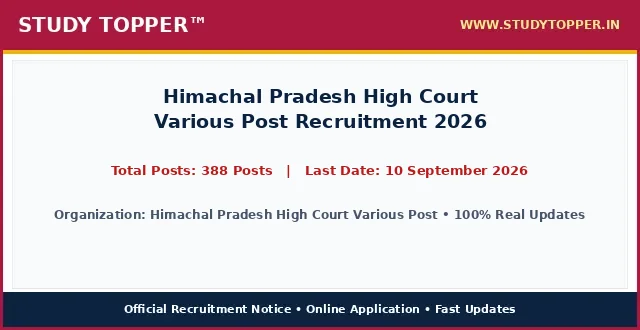
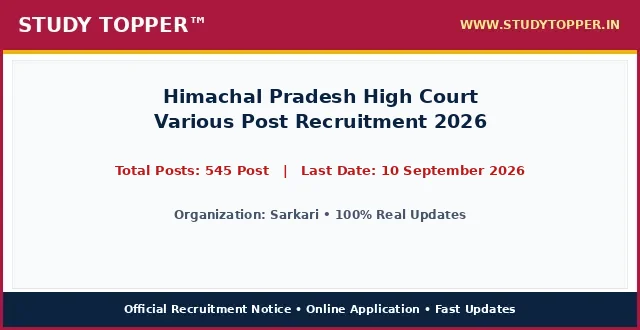
chore(lifecycle): daily auto-sort vacancies and update active dates

Changed region(s): [[0.1562, 0.4848, 0.8438, 0.5455], [0.0625, 0.6364, 0.9375, 0.6667]]

diff --git a/pages/himachal-pradesh-high-court-various-post-2026.html b/pages/himachal-pradesh-high-court-various-post-2026.html
@@ -987,12 +987,12 @@ ul.wp-block-latest-posts a:hover {
 <main class="site-main" id="main">
 <div class="gb-container gb-container-b39c368c">
 <h1 class="gb-headline gb-headline-e52a0102 gb-headline-text" style="font-size: 22px; font-weight: 700; color: #0000cd; text-align: left; margin: 8px 0 4px 0; line-height: 1.3; width: 100%; font-family: '-apple-system, BlinkMacSystemFont, 'Segoe UI', Roboto, 'Helvetica Neue', Arial, sans-serif', Times, serif, Hind, sans-serif;">Himachal Pradesh High Court Various Post Recruitment 2026</h1>
-<div class="gb-container gb-container-659bd175"><p style="color: #cd0808; font-weight: 700; font-size: 15px; margin: 2px 0 7px 0; text-align: left; font-family: '-apple-system, BlinkMacSystemFont, 'Segoe UI', Roboto, 'Helvetica Neue', Arial, sans-serif', Times, serif, Hind, sans-serif;">Post Date: August 21, 2026 07:48 PM</p></div>
-<p class="gb-headline gb-headline-550ae316 short_Details gb-headline-text" style="width: 100%; max-width: 100%; font-size: 16.8px; line-height: 1.55; color: #000000; text-align: justify; text-justify: inter-word; margin: 8px 0 14px 0; display: block; font-family: '-apple-system, BlinkMacSystemFont, 'Segoe UI', Roboto, 'Helvetica Neue', Arial, sans-serif', Times, serif, Hind, sans-serif;"><strong style="color: #0000cd;">Himachal Pradesh High Court Various Post</strong> has officially published the recruitment notice <strong style="color: #cd0808;">Himachal Pradesh High Court Various Post Recruitment 2026</strong> under notification number Official Advt 2026. Online applications are invited for 388 Posts across multiple departments and cadre positions. Interested candidates possessing the requisite educational qualifications and falling between 18 Years to 45-50 Years (Category Wise) can complete their online registration before the application deadline of 10 September 2026. Applicants should read the eligibility criteria, category reservation rules, and exam scheme thoroughly before submitting applications.</p>
+<div class="gb-container gb-container-659bd175"><p style="color: #cd0808; font-weight: 700; font-size: 15px; margin: 2px 0 7px 0; text-align: left; font-family: '-apple-system, BlinkMacSystemFont, 'Segoe UI', Roboto, 'Helvetica Neue', Arial, sans-serif', Times, serif, Hind, sans-serif;">Post Date: August 22, 2026 11:30 AM</p></div>
+<p class="gb-headline gb-headline-550ae316 short_Details gb-headline-text" style="width: 100%; max-width: 100%; font-size: 16.8px; line-height: 1.55; color: #000000; text-align: justify; text-justify: inter-word; margin: 8px 0 14px 0; display: block; font-family: '-apple-system, BlinkMacSystemFont, 'Segoe UI', Roboto, 'Helvetica Neue', Arial, sans-serif', Times, serif, Hind, sans-serif;"><strong style="color: #0000cd;">Sarkari</strong> has officially published the recruitment notice <strong style="color: #cd0808;">Himachal Pradesh High Court Various Post Recruitment 2026</strong> under notification number Official Advt 2026. Online applications are invited for 545 Post across multiple departments and cadre positions. Interested candidates possessing the requisite educational qualifications and falling between 18 Years to 40 Years can complete their online registration before the application deadline of 10 September 2026. Applicants should read the eligibility criteria, category reservation rules, and exam scheme thoroughly before submitting applications.</p>
 <div class="gb-container gb-container-9849916c"><div class="social-buttons-compact" style="display: flex; justify-content: flex-start; align-items: center; gap: 10px; margin: 10px 0 16px 0; width: 100%;"><a class="social-btn-compact wa" href="https://whatsapp.com/channel/0029Va9xyz" rel="noopener" style="background-color: #00d084; color: #ffffff; padding: 10px 18px; border-radius: 4px; text-decoration: none; font-weight: bold; font-size: 15.5px; display: inline-flex; align-items: center; justify-content: center; height: auto;" target="_blank">WhatsApp</a><a class="social-btn-compact tg" href="https://t.me/studytopperofficial" rel="noopener" style="background-color: #0088cc; color: #ffffff; padding: 10px 18px; border-radius: 4px; text-decoration: none; font-weight: bold; font-size: 15.5px; display: inline-flex; align-items: center; justify-content: center; height: auto;" target="_blank">Telegram</a></div></div>
 <div class="gb-container gb-container-f58e6ca1" style="border: 2px solid #5b032f; border-radius: 4px; overflow: hidden; margin: 15px 0 20px 0; background-color: #ffffff; width: 100%; box-sizing: border-box;">
 <h2 class="gb-headline gb-headline-2ca5a791 gb-headline-text" style="font-size: 16px; font-weight: 700; text-align: center; color: #ef0303; line-height: 1.3; padding: 6px 4px; margin: 0; background: #ffffff; font-family: '-apple-system, BlinkMacSystemFont, 'Segoe UI', Roboto, 'Helvetica Neue', Arial, sans-serif', Times, serif, Hind, sans-serif;">Himachal Pradesh High Court Various Post Recruitment 2026 &ndash; Latest Details &amp; Updates</h2>
-<h3 class="gb-headline gb-headline-7d5f86e8 gb-headline-text" style="font-size: 16px; font-weight: 600; text-align: center; color: #009703; line-height: 1.25; margin: 0; padding: 2px 4px 6px 4px; background: #ffffff; font-family: '-apple-system, BlinkMacSystemFont, 'Segoe UI', Roboto, 'Helvetica Neue', Arial, sans-serif', Times, serif, Hind, sans-serif;">Himachal Pradesh High Court Various Post : Details &amp; Summary</h3>
+<h3 class="gb-headline gb-headline-7d5f86e8 gb-headline-text" style="font-size: 16px; font-weight: 600; text-align: center; color: #009703; line-height: 1.25; margin: 0; padding: 2px 4px 6px 4px; background: #ffffff; font-family: '-apple-system, BlinkMacSystemFont, 'Segoe UI', Roboto, 'Helvetica Neue', Arial, sans-serif', Times, serif, Hind, sans-serif;">Sarkari : Details &amp; Summary</h3>
 <p class="gb-headline gb-headline-79adf169 gb-headline-text" style="margin: 0 0 6px 0; font-family: '-apple-system, BlinkMacSystemFont, 'Segoe UI', Roboto, 'Helvetica Neue', Arial, sans-serif', Times, serif, Hind, sans-serif; text-align: center; font-size: 18px; font-weight: 700;"><a href="/" style="color: #0000ff; text-decoration: underline;">StudyTopper.in</a></p>
 
 <style id="st-post-boxes-responsive-css">
@@ -1025,7 +1025,7 @@ ul.wp-block-latest-posts a:hover {
     <div style="background-color: #5b032f; color: #ffffff; padding: 8px 10px; font-size: 20px; font-weight: 700; text-align: center; font-family: '-apple-system, BlinkMacSystemFont, 'Segoe UI', Roboto, 'Helvetica Neue', Arial, sans-serif', Times, serif, Hind, sans-serif;">Important Dates</div>
     <div style="padding: 12px 14px; background-color: #ffffff;">
       <ul style="padding-left: 20px; margin: 0; list-style-type: disc; text-align: left; font-size: 14pt; line-height: 1.6; font-family: '-apple-system, BlinkMacSystemFont, 'Segoe UI', Roboto, 'Helvetica Neue', Arial, sans-serif', Times, serif, Hind, sans-serif;">
-        <li><span style="font-size: 14pt;">Online Apply Start Date : <strong>10 August 2026</strong></span></li><li><span style="font-size: 14pt;">Online Apply Last Date : <span style="color: #ff0000;"><strong>10 September 2026</strong></span></span></li><li><span style="font-size: 14pt;">Last Date Pay Exam Fee : <span style="color: #ff0000;"><strong>10 September 2026</strong></span></span></li><li><span style="font-size: 14pt;">Exam Date : <strong>Notify Soon</strong></span></li><li><span style="font-size: 14pt;">Admit Card : <strong>Before Exam</strong></span></li>
+        
       </ul>
     </div>
   </div>
@@ -1034,7 +1034,7 @@ ul.wp-block-latest-posts a:hover {
     <div style="background-color: #5b032f; color: #ffffff; padding: 8px 10px; font-size: 20px; font-weight: 700; text-align: center; font-family: '-apple-system, BlinkMacSystemFont, 'Segoe UI', Roboto, 'Helvetica Neue', Arial, sans-serif', Times, serif, Hind, sans-serif;">Application Fee</div>
     <div style="padding: 12px 14px; background-color: #ffffff;">
       <ul style="padding-left: 20px; margin: 0; list-style-type: disc; text-align: left; font-size: 14pt; line-height: 1.6; font-family: '-apple-system, BlinkMacSystemFont, 'Segoe UI', Roboto, 'Helvetica Neue', Arial, sans-serif', Times, serif, Hind, sans-serif;">
-        <li><span style="font-size: 14pt;">For General : <strong>₹ 450/-</strong></span></li><li><span style="font-size: 14pt;">For OBC, EWS, SC, ST, PH : <strong>₹ 300/- (Only For Himanchal Pradesh Candidates)</strong></span></li><li><span style="font-size: 14pt;">Payment Mode (Online) : <strong>You can make the payment using the following methods: Debit Card Credit Card Internet Banking IMPS Cash Card / Mobile Wallet</strong></span></li><li><span style="font-size: 14pt;">Candidates must have passed the Graduation in any stream with MBA from a UGC : <strong>recognized University/Institution.</strong></span></li><li><span style="font-size: 14pt;">English Stenography Speed 80 WPM & Typing Speed 40 WPM in English and 30 WPM in Hindi (Kruti Dev : <strong>10 font).</strong></span></li>
+        <li><span style="font-size: 14pt;">Bihar Police BPSSC Sub Inspector SI Prohibition Result 2026 Advt. No. : <strong>03/2026</strong></span></li><li><span style="font-size: 14pt;">UP Scholarship Online Form 2026 : <strong>2027</strong></span></li>
       </ul>
       <div style="margin-top: 10px; font-size: 14pt; line-height: 1.5; color: #000000; border-top: 1px dashed #ccc; padding-top: 8px; font-family: '-apple-system, BlinkMacSystemFont, 'Segoe UI', Roboto, 'Helvetica Neue', Arial, sans-serif', Times, serif, Hind, sans-serif;">
         <strong>Mode of Payment / Access:</strong> Online via Net Banking, Debit Card, Credit Card, UPI or Free Candidate Portal.
@@ -1047,10 +1047,10 @@ ul.wp-block-latest-posts a:hover {
 <div class="st-grid-row" style="display: flex; flex-wrap: wrap; width: 100%; border-top: 2px solid #5b032f; margin: 0; padding: 0; box-sizing: border-box;">
   <!-- Left Col: Age Limits -->
   <div class="st-col-half st-col-border-right" style="box-sizing: border-box; vertical-align: top;">
-    <div style="background-color: #046132; color: #ffffff; padding: 8px 10px; font-size: 17px; font-weight: 700; text-align: center; font-family: '-apple-system, BlinkMacSystemFont, 'Segoe UI', Roboto, 'Helvetica Neue', Arial, sans-serif', Times, serif, Hind, sans-serif;">Himachal Pradesh High Court Various Post : Age Limits As On 01 August 2026</div>
+    <div style="background-color: #046132; color: #ffffff; padding: 8px 10px; font-size: 17px; font-weight: 700; text-align: center; font-family: '-apple-system, BlinkMacSystemFont, 'Segoe UI', Roboto, 'Helvetica Neue', Arial, sans-serif', Times, serif, Hind, sans-serif;">Sarkari : Age Limits As On 01 August 2026</div>
     <div style="padding: 12px 14px; background-color: #ffffff;">
       <ul style="padding-left: 20px; margin: 0; list-style-type: disc; text-align: left; font-size: 14pt; line-height: 1.6; font-family: '-apple-system, BlinkMacSystemFont, 'Segoe UI', Roboto, 'Helvetica Neue', Arial, sans-serif', Times, serif, Hind, sans-serif;">
-        <li><span style="font-size: 14pt;">Minimum Age : <strong>18 Years</strong></span></li><li><span style="font-size: 14pt;">Maximum Age : <strong>45-50 Years (Category Wise)</strong></span></li>
+        
       </ul>
     </div>
   </div>
@@ -1058,7 +1058,7 @@ ul.wp-block-latest-posts a:hover {
   <div class="st-col-half" style="box-sizing: border-box; vertical-align: top;">
     <div style="background-color: #f53c00; color: #ffffff; padding: 8px 10px; font-size: 20px; font-weight: 700; text-align: center; font-family: '-apple-system, BlinkMacSystemFont, 'Segoe UI', Roboto, 'Helvetica Neue', Arial, sans-serif', Times, serif, Hind, sans-serif;">Total Post</div>
     <div style="padding: 24px 10px; background-color: #ffffff; text-align: center;">
-      <span style="font-size: 28px; font-weight: 800; color: #000000; font-family: '-apple-system, BlinkMacSystemFont, 'Segoe UI', Roboto, 'Helvetica Neue', Arial, sans-serif', Times, serif, Hind, sans-serif;">388 Posts</span>
+      <span style="font-size: 28px; font-weight: 800; color: #000000; font-family: '-apple-system, BlinkMacSystemFont, 'Segoe UI', Roboto, 'Helvetica Neue', Arial, sans-serif', Times, serif, Hind, sans-serif;">545 Post</span>
     </div>
   </div>
 </div>
@@ -1073,13 +1073,13 @@ ul.wp-block-latest-posts a:hover {
 <table style="border-collapse: collapse; width: 100%; height: 150px;">
 <tbody>
 <tr style="height: 25px;">
-<td colspan="2" style="width: 50%; text-align: center; height: 25px;"><span style="background-color: #000080; color: #ffffff; font-size: 14pt;"><strong> Himachal Pradesh High Court Various Post : Category Wise Vacancy Details </strong></span></td>
+<td colspan="2" style="width: 50%; text-align: center; height: 25px;"><span style="background-color: #000080; color: #ffffff; font-size: 14pt;"><strong> Sarkari : Category Wise Vacancy Details </strong></span></td>
 </tr>
 <tr style="height: 25px;">
 <td style="width: 50%; height: 25px; text-align: center;"><span style="font-size: 14pt;"><strong>Category / Particulars</strong></span></td>
 <td style="width: 50%; height: 25px; text-align: center;"><span style="font-size: 14pt;"><strong>Count / Status</strong></span></td>
 </tr>
-<tr><td style="text-align: center;">Court Manager (Group -B)</td><td style="text-align: center; font-weight: normal; color: inherit;">05 Posts</td></tr><tr><td style="text-align: center;">Stenographer Grade-III (Group-C)</td><td style="text-align: center; font-weight: normal; color: inherit;">79 Posts</td></tr>
+
 </tbody>
 </table>
 <p>&nbsp;</p>
@@ -1090,31 +1090,7 @@ ul.wp-block-latest-posts a:hover {
 <th style="background-color: #f53c00; color: #ffffff; padding: 6px 10px; text-align: center; border: 1px solid #d35400; font-size: 15px; font-weight: 700; font-family: '-apple-system, BlinkMacSystemFont, 'Segoe UI', Roboto, 'Helvetica Neue', Arial, sans-serif', Times, serif, Hind, sans-serif;">Total Posts</th>
 <th style="background-color: #f53c00; color: #ffffff; padding: 6px 10px; text-align: center; border: 1px solid #d35400; font-size: 15px; font-weight: 700; font-family: '-apple-system, BlinkMacSystemFont, 'Segoe UI', Roboto, 'Helvetica Neue', Arial, sans-serif', Times, serif, Hind, sans-serif;">Eligibility Criteria</th>
 </tr>
-<tr>
-<td style="padding: 8px; border: 1px solid #ddd; font-weight: bold;">Court Manager (Group -B)</td>
-<td style="padding: 8px; border: 1px solid #ddd; text-align: center; font-weight: bold;">388 Posts</td>
-<td style="padding: 8px; border: 1px solid #ddd;">Candidates must have passed the Graduation in any stream with MBA from a UGC-recognized University/Institution. 3 Years experience in Process Management, IT Systems Management, HR Management, or Financial Management.</td>
-</tr><tr>
-<td style="padding: 8px; border: 1px solid #ddd; font-weight: bold;">Clerk (Group-C)</td>
-<td style="padding: 8px; border: 1px solid #ddd; text-align: center; font-weight: bold;">388 Posts</td>
-<td style="padding: 8px; border: 1px solid #ddd;">Candidates must have a Graduation Degree examination from any recognized board in India with basic knowledge of Computers (Windows/Linux OS, operating, typing, taking printouts. Typing speed of 30 WPM in English and 25 WPM in Hindi (Kruti Dev-10 font) on computer.</td>
-</tr><tr>
-<td style="padding: 8px; border: 1px solid #ddd; font-weight: bold;">Stenographer Grade-III (Group-C)</td>
-<td style="padding: 8px; border: 1px solid #ddd; text-align: center; font-weight: bold;">388 Posts</td>
-<td style="padding: 8px; border: 1px solid #ddd;">Candidates must have a Graduation Degree examination from any recognized board in India. English Stenography Speed 80 WPM & Typing Speed 40 WPM in English and 30 WPM in Hindi (Kruti Dev-10 font).</td>
-</tr><tr>
-<td style="padding: 8px; border: 1px solid #ddd; font-weight: bold;">Driver (Group-C)</td>
-<td style="padding: 8px; border: 1px solid #ddd; text-align: center; font-weight: bold;">388 Posts</td>
-<td style="padding: 8px; border: 1px solid #ddd;">Candidates must have passed the 10th (Matriculation) examination from any recognized board in India. Valid LMV Driving License with at least 3 Years driving experience.</td>
-</tr><tr>
-<td style="padding: 8px; border: 1px solid #ddd; font-weight: bold;">Process Server (Group-D)</td>
-<td style="padding: 8px; border: 1px solid #ddd; text-align: center; font-weight: bold;">388 Posts</td>
-<td style="padding: 8px; border: 1px solid #ddd;">Candidates must have passed the 10+2 (Intermediate) examination from any recognized board in India</td>
-</tr><tr>
-<td style="padding: 8px; border: 1px solid #ddd; font-weight: bold;">Peon / Orderly / Chowkidar / Safai Karmchari / etc. (Group-D)</td>
-<td style="padding: 8px; border: 1px solid #ddd; text-align: center; font-weight: bold;">388 Posts</td>
-<td style="padding: 8px; border: 1px solid #ddd;">Candidates must have passed the 10+2 (Intermediate) examination from any recognized board in India</td>
-</tr>
+
 </tbody>
 </table>
 <p>&nbsp;</p>
@@ -1124,10 +1100,10 @@ ul.wp-block-latest-posts a:hover {
 <table style="border-collapse: collapse; width: 100%;">
 <tbody>
 <tr>
-<td style="width: 100%; text-align: center;"><span style="background-color: #000080; color: #ffffff; font-size: 14pt; font-weight: bold; display: block; padding: 6px;"> How to Fill Himachal Pradesh High Court Various Post Online Application Form </span></td>
+<td style="width: 100%; text-align: center;"><span style="background-color: #000080; color: #ffffff; font-size: 14pt; font-weight: bold; display: block; padding: 6px;"> How to Fill Sarkari Online Application Form </span></td>
 </tr>
 <tr>
-<td style="width: 100%;"><ol style="margin:0; padding-left:18px; text-align: left !important; list-style-position: outside !important"><li style="margin-bottom:6px; text-align: left !important;">Visit official portal for Himachal Pradesh High Court Various Post Recruitment 2026 via direct application link in important links section below.</li><li style="margin-bottom:6px; text-align: left !important;">Read official recruitment notification carefully to verify category eligibility criteria and age limits.</li><li style="margin-bottom:6px; text-align: left !important;">Complete online candidate registration with valid mobile number and email ID.</li><li style="margin-bottom:6px; text-align: left !important;">Fill educational qualifications, identity details, and permanent address accurately.</li><li style="margin-bottom:6px; text-align: left !important;">Upload scanned photograph and signature in required dimensions.</li><li style="margin-bottom:6px; text-align: left !important;">Resize candidate photograph and signature accurately using StudyTopper Tools resizer at indtool.in.</li><li style="margin-bottom:6px; text-align: left !important;">Pay applicable category application fee online using Debit Card, Credit Card, Net Banking, or UPI.</li><li style="margin-bottom:6px; text-align: left !important;">Review full application form preview thoroughly and submit before 10 September 2026.</li><li style="margin-bottom:6px; text-align: left !important;">Download and print submitted application confirmation page for future reference.</li></ol></td>
+<td style="width: 100%;"><ol style="margin:0; padding-left:18px; text-align: left !important; list-style-position: outside !important"><li style="margin-bottom:6px; text-align: left !important;">Resize candidate photograph and signature accurately using the <a href="https://indtool.in" rel="noopener" target="_blank"><strong>StudyTopper Tools</strong></a> image resizer at indtool.in.</li></ol></td>
 </tr>
 </tbody>
 </table>
@@ -1135,12 +1111,12 @@ ul.wp-block-latest-posts a:hover {
 <table style="border-collapse: collapse; width: 100%;">
 <tbody>
 <tr>
-<td style="width: 100%; text-align: center;"><span style="background-color: #000080; color: #ffffff; font-size: 14pt;"><strong><span style="color: #ffffff;"> Himachal Pradesh High Court Various Post Recruitment 2026 : Mode Of Selection </span></strong></span></td>
+<td style="width: 100%; text-align: center;"><span style="background-color: #000080; color: #ffffff; font-size: 14pt;"><strong><span style="color: #ffffff;"> Sarkari Recruitment 2026 : Mode Of Selection </span></strong></span></td>
 </tr>
 <tr>
 <td style="width: 100%;">
 <ul class="wp-block-list" style="text-align: left !important; list-style-position: outside !important">
-<li style="text-align: left !important;"><span style="font-size: 14pt;"><strong>Computer Based Examination (CBE) / Evaluation</strong></span></li><li style="text-align: left !important;"><span style="font-size: 14pt;"><strong>Document Verification</strong></span></li><li style="text-align: left !important;"><span style="font-size: 14pt;"><strong>Final Merit Allotment</strong></span></li>
+<li style="text-align: left !important;"><span style="font-size: 14pt;"><strong>Computer Based Examination (CBE) / Written Exam</strong></span></li><li style="text-align: left !important;"><span style="font-size: 14pt;"><strong>Document Verification</strong></span></li><li style="text-align: left !important;"><span style="font-size: 14pt;"><strong>Medical Examination</strong></span></li>
 </ul>
 </td>
 </tr>
@@ -1175,10 +1151,10 @@ ul.wp-block-latest-posts a:hover {
 
 <tr style="border-bottom: 1px solid #000000; background-color: #fff37a;">
 <td style="width: 50%; padding: 14px 16px; border-right: 1px solid #000000; text-align: center;">
-<span style="font-size: 19px; font-weight: 800; color: #000000; font-family: '-apple-system, BlinkMacSystemFont, 'Segoe UI', Roboto, 'Helvetica Neue', Arial, sans-serif', Times, serif, Hind, sans-serif;">Apply Online</span>
+<span style="font-size: 19px; font-weight: 800; color: #000000; font-family: '-apple-system, BlinkMacSystemFont, 'Segoe UI', Roboto, 'Helvetica Neue', Arial, sans-serif', Times, serif, Hind, sans-serif;">Apply Online Link</span>
 </td>
 <td style="width: 50%; padding: 14px 16px; text-align: center;">
-<span style="font-size: 20px; font-weight: 800; font-family: '-apple-system, BlinkMacSystemFont, 'Segoe UI', Roboto, 'Helvetica Neue', Arial, sans-serif', Times, serif, Hind, sans-serif;"><a href="https://www.hphcrecruitment.in/login" aria-label="Click Here for Apply Online - Himachal Pradesh High Court Various Post Recruitment 2026" rel="noopener noreferrer" style="color: #0000ef; font-weight: 800; text-decoration: none;" target="_blank">Click Here</a></span>
+<span style="font-size: 20px; font-weight: 800; font-family: '-apple-system, BlinkMacSystemFont, 'Segoe UI', Roboto, 'Helvetica Neue', Arial, sans-serif', Times, serif, Hind, sans-serif;"><a href="https://www.sarkariresult.com/2026/mpesb-group2-subgroup-4-aug26/" aria-label="Click Here for Apply Online Link - Himachal Pradesh High Court Various Post Recruitment 2026" rel="noopener noreferrer" style="color: #0000ef; font-weight: 800; text-decoration: none;" target="_blank">Click Here</a></span>
 </td>
 </tr>
 <tr style="border-bottom: 1px solid #000000; background-color: #fff37a;">
@@ -1186,23 +1162,31 @@ ul.wp-block-latest-posts a:hover {
 <span style="font-size: 19px; font-weight: 800; color: #000000; font-family: '-apple-system, BlinkMacSystemFont, 'Segoe UI', Roboto, 'Helvetica Neue', Arial, sans-serif', Times, serif, Hind, sans-serif;">Check Official Notification</span>
 </td>
 <td style="width: 50%; padding: 14px 16px; text-align: center;">
-<span style="font-size: 20px; font-weight: 800; font-family: '-apple-system, BlinkMacSystemFont, 'Segoe UI', Roboto, 'Helvetica Neue', Arial, sans-serif', Times, serif, Hind, sans-serif;"><a href="https://highcourt.hp.gov.in/uploads/recruitment/recruitment_1786092260_7203.pdf" aria-label="Click Here for Check Official Notification - Himachal Pradesh High Court Various Post Recruitment 2026" rel="noopener noreferrer" style="color: #0000ef; font-weight: 800; text-decoration: none;" target="_blank">Click Here</a></span>
+<span style="font-size: 20px; font-weight: 800; font-family: '-apple-system, BlinkMacSystemFont, 'Segoe UI', Roboto, 'Helvetica Neue', Arial, sans-serif', Times, serif, Hind, sans-serif;"><a href="" aria-label="Click Here for Check Official Notification - Himachal Pradesh High Court Various Post Recruitment 2026" rel="noopener noreferrer" style="color: #0000ef; font-weight: 800; text-decoration: none;" target="_blank">Click Here</a></span>
 </td>
 </tr>
 <tr style="border-bottom: 1px solid #000000; background-color: #fff37a;">
 <td style="width: 50%; padding: 14px 16px; border-right: 1px solid #000000; text-align: center;">
-<span style="font-size: 19px; font-weight: 800; color: #000000; font-family: '-apple-system, BlinkMacSystemFont, 'Segoe UI', Roboto, 'Helvetica Neue', Arial, sans-serif', Times, serif, Hind, sans-serif;">HP High Court Official Website</span>
+<span style="font-size: 19px; font-weight: 800; color: #000000; font-family: '-apple-system, BlinkMacSystemFont, 'Segoe UI', Roboto, 'Helvetica Neue', Arial, sans-serif', Times, serif, Hind, sans-serif;">Photo / Sign Resizer Tool</span>
 </td>
 <td style="width: 50%; padding: 14px 16px; text-align: center;">
-<span style="font-size: 20px; font-weight: 800; font-family: '-apple-system, BlinkMacSystemFont, 'Segoe UI', Roboto, 'Helvetica Neue', Arial, sans-serif', Times, serif, Hind, sans-serif;"><a href="https://highcourt.hp.gov.in/" aria-label="Click Here for HP High Court Official Website - Himachal Pradesh High Court Various Post Recruitment 2026" rel="noopener noreferrer" style="color: #0000ef; font-weight: 800; text-decoration: none;" target="_blank">Click Here</a></span>
+<span style="font-size: 20px; font-weight: 800; font-family: '-apple-system, BlinkMacSystemFont, 'Segoe UI', Roboto, 'Helvetica Neue', Arial, sans-serif', Times, serif, Hind, sans-serif;"><a href="https://indtool.in" aria-label="Click Here for Photo / Sign Resizer Tool - Himachal Pradesh High Court Various Post Recruitment 2026" rel="noopener noreferrer" style="color: #0000ef; font-weight: 800; text-decoration: none;" target="_blank">Click Here</a></span>
 </td>
 </tr>
-<tr style=" background-color: #fff37a;">
+<tr style="border-bottom: 1px solid #000000; background-color: #fff37a;">
 <td style="width: 50%; padding: 14px 16px; border-right: 1px solid #000000; text-align: center;">
 <span style="font-size: 19px; font-weight: 800; color: #000000; font-family: '-apple-system, BlinkMacSystemFont, 'Segoe UI', Roboto, 'Helvetica Neue', Arial, sans-serif', Times, serif, Hind, sans-serif;">Check Sarkari Result</span>
 </td>
 <td style="width: 50%; padding: 14px 16px; text-align: center;">
 <span style="font-size: 20px; font-weight: 800; font-family: '-apple-system, BlinkMacSystemFont, 'Segoe UI', Roboto, 'Helvetica Neue', Arial, sans-serif', Times, serif, Hind, sans-serif;"><a href="/" aria-label="Click Here for Check Sarkari Result - Himachal Pradesh High Court Various Post Recruitment 2026" rel="noopener noreferrer" style="color: #0000ef; font-weight: 800; text-decoration: none;" >Click Here</a></span>
+</td>
+</tr>
+<tr style=" background-color: #fff37a;">
+<td style="width: 50%; padding: 14px 16px; border-right: 1px solid #000000; text-align: center;">
+<span style="font-size: 19px; font-weight: 800; color: #000000; font-family: '-apple-system, BlinkMacSystemFont, 'Segoe UI', Roboto, 'Helvetica Neue', Arial, sans-serif', Times, serif, Hind, sans-serif;">Sarkari Website</span>
+</td>
+<td style="width: 50%; padding: 14px 16px; text-align: center;">
+<span style="font-size: 20px; font-weight: 800; font-family: '-apple-system, BlinkMacSystemFont, 'Segoe UI', Roboto, 'Helvetica Neue', Arial, sans-serif', Times, serif, Hind, sans-serif;"><a href="" aria-label="Click Here for Sarkari Website - Himachal Pradesh High Court Various Post Recruitment 2026" rel="noopener noreferrer" style="color: #0000ef; font-weight: 800; text-decoration: none;" target="_blank">Click Here</a></span>
 </td>
 </tr>
 </tbody>
@@ -1216,9 +1200,9 @@ ul.wp-block-latest-posts a:hover {
   <div style="font-size: 14.5px; line-height: 1.65; color: #222222;">
     <p style="margin: 0 0 4px 0;"><strong style="color: #000080;">Q1. What is the last date to apply for Himachal Pradesh High Court Various Post Recruitment 2026?</strong></p>
 <p style="margin: 0 0 16px 0; color: #333333; line-height: 1.6;">Ans. The last date for online submission of application is 10 September 2026.</p><p style="margin: 0 0 4px 0;"><strong style="color: #000080;">Q2. What is the age limit for Himachal Pradesh High Court Various Post Recruitment 2026?</strong></p>
-<p style="margin: 0 0 16px 0; color: #333333; line-height: 1.6;">Ans. Candidate age should generally be between 18 Years and 45-50 Years (Category Wise) as on 01 August 2026. Age relaxation is applicable per rules.</p><p style="margin: 0 0 4px 0;"><strong style="color: #000080;">Q3. What is the application fee for Himachal Pradesh High Court Various Post Recruitment 2026?</strong></p>
+<p style="margin: 0 0 16px 0; color: #333333; line-height: 1.6;">Ans. Candidate age should generally be between 18 Years and 40 Years as on 01 August 2026. Age relaxation is applicable per rules.</p><p style="margin: 0 0 4px 0;"><strong style="color: #000080;">Q3. What is the application fee for Himachal Pradesh High Court Various Post Recruitment 2026?</strong></p>
 <p style="margin: 0 0 16px 0; color: #333333; line-height: 1.6;">Ans. Application fee varies by category (e.g., General/OBC: Rs. 100/-, SC/ST/PwD: Exempted).</p><p style="margin: 0 0 4px 0;"><strong style="color: #000080;">Q4. How many total posts are available in Himachal Pradesh High Court Various Post Recruitment 2026?</strong></p>
-<p style="margin: 0 0 16px 0; color: #333333; line-height: 1.6;">Ans. A total of 388 Posts have been officially announced for this recruitment drive.</p><p style="margin: 0 0 4px 0;"><strong style="color: #000080;">Q5. How can I apply online for Himachal Pradesh High Court Various Post Recruitment 2026?</strong></p>
+<p style="margin: 0 0 16px 0; color: #333333; line-height: 1.6;">Ans. A total of 545 Post have been officially announced for this recruitment drive.</p><p style="margin: 0 0 4px 0;"><strong style="color: #000080;">Q5. How can I apply online for Himachal Pradesh High Court Various Post Recruitment 2026?</strong></p>
 <p style="margin: 0 0 0 0; color: #333333; line-height: 1.6;">Ans. Eligible candidates can click the 'Apply Online' link in the Important Links table, register, fill details, resize photo/signature via indtool.in, and submit before 10 September 2026.</p>
   </div>
 </div>
